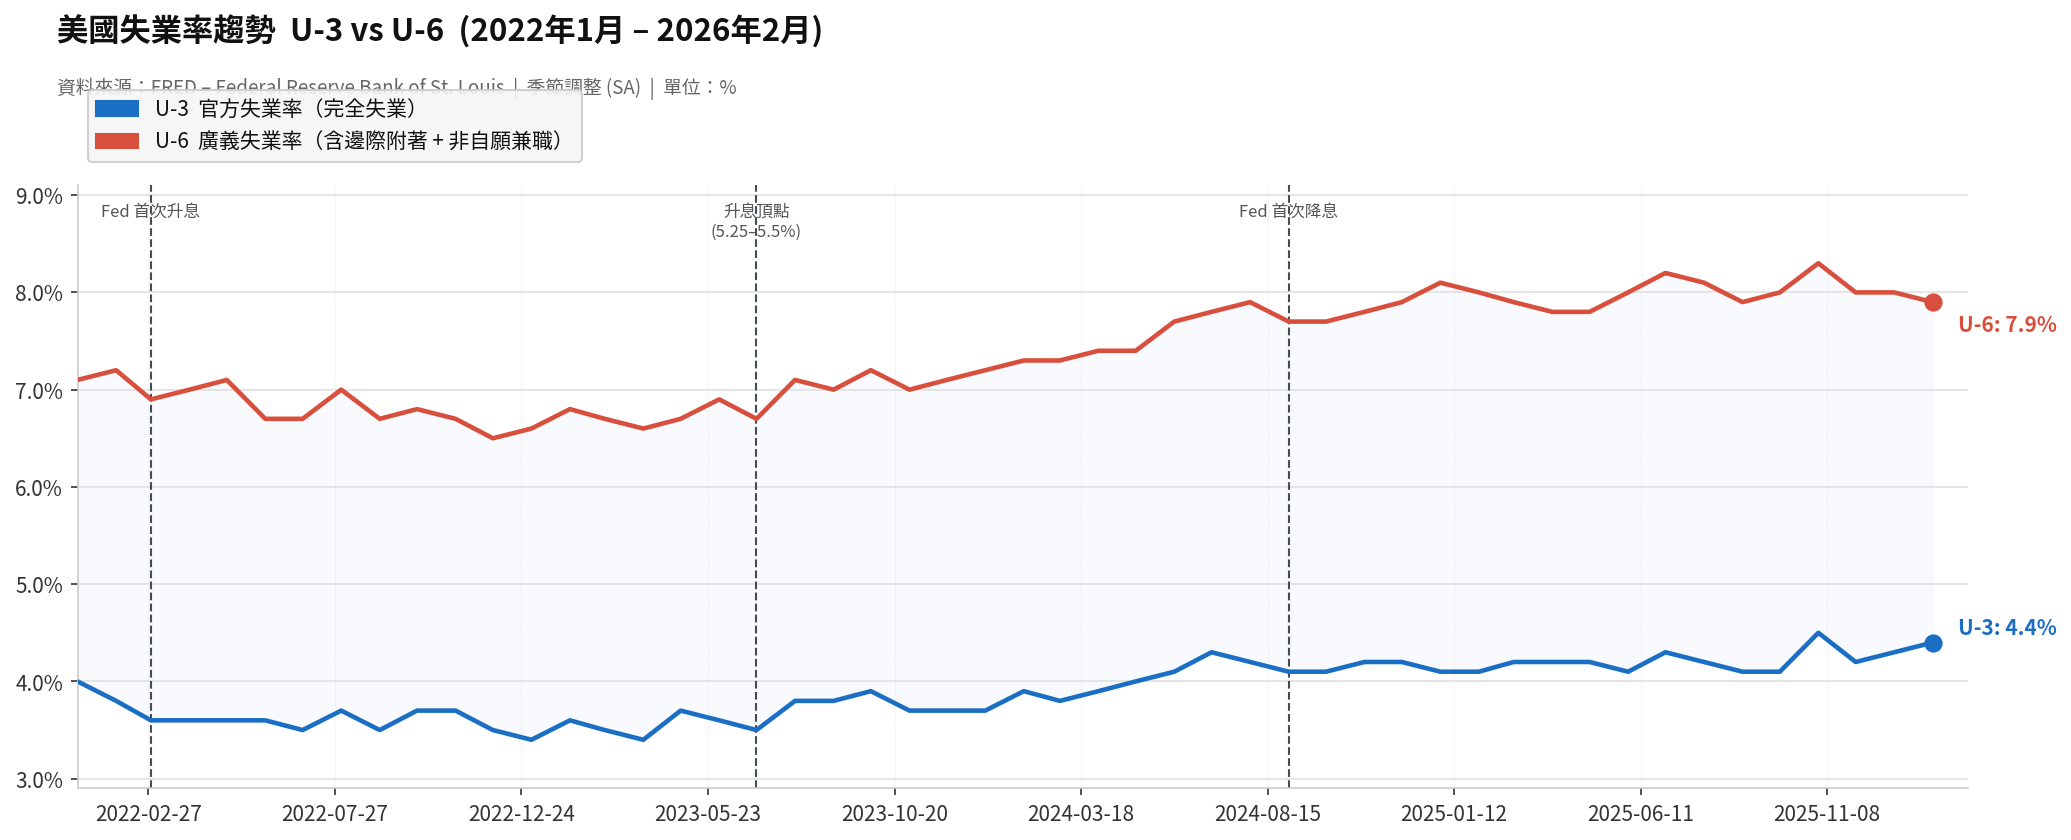
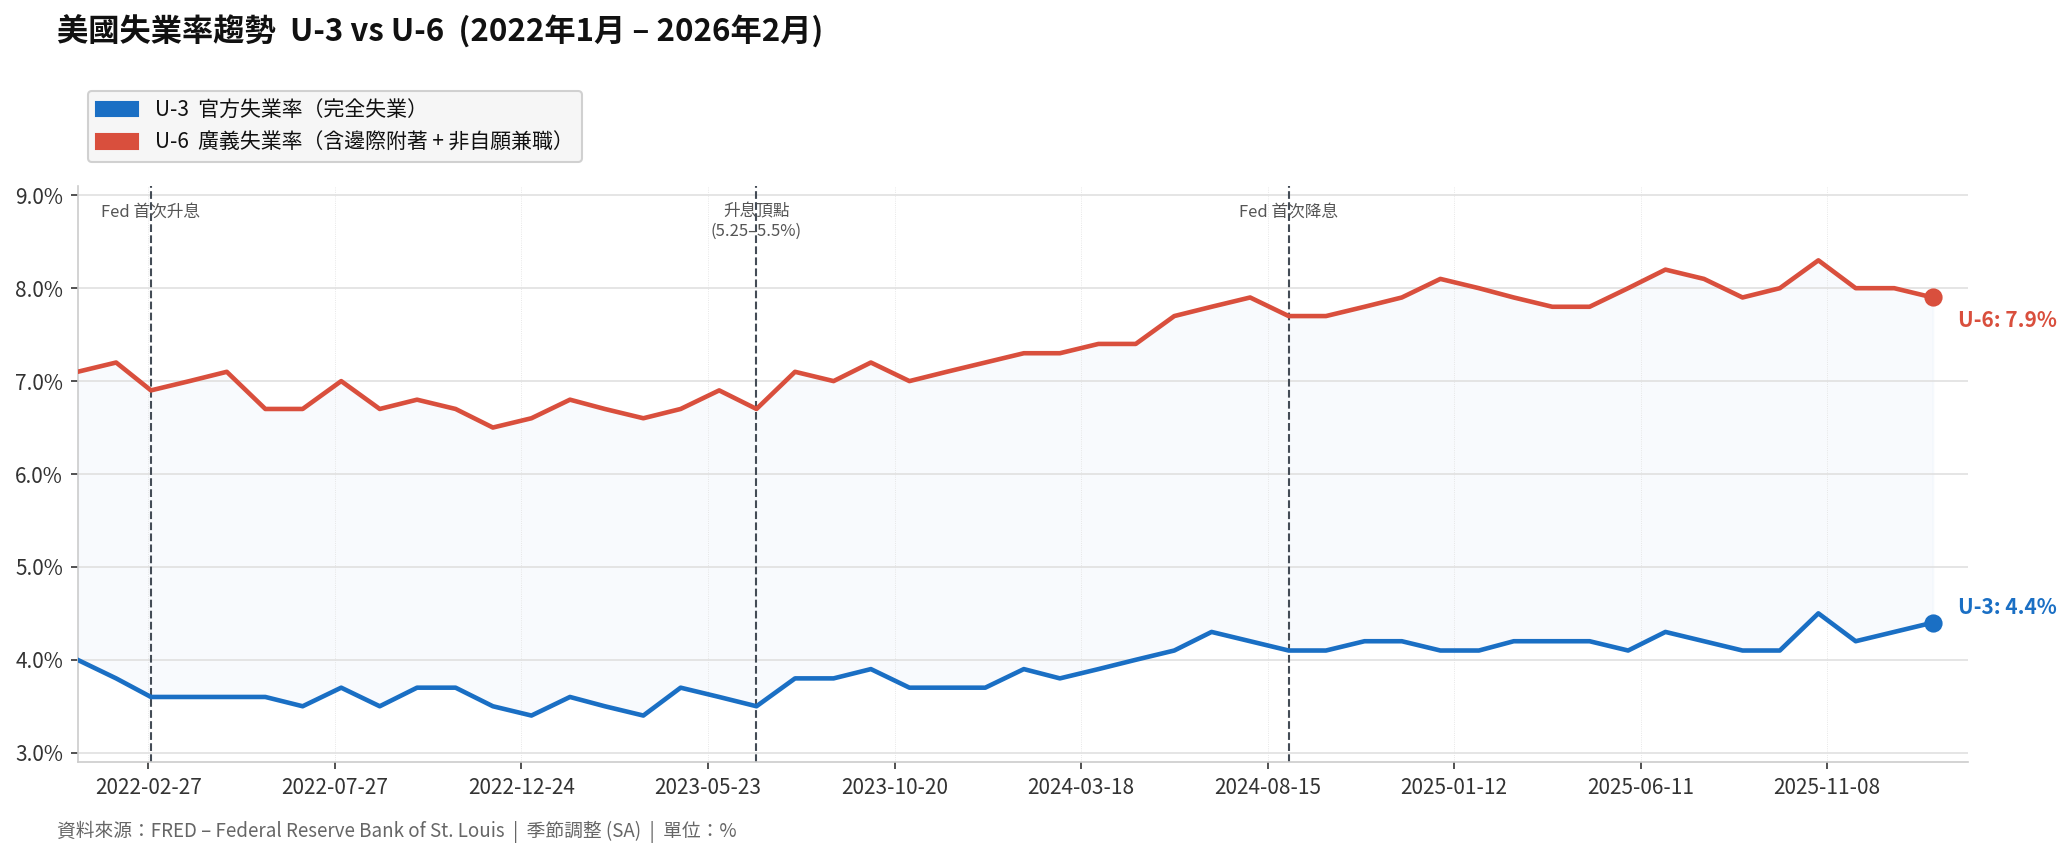
Move data source text below chart
Shift 資料來源 fig.text from y=0.89 (above axes) to y=0.04 (below axes),
and increase bottom margin from 0.10 to 0.13 to prevent overlap with x-axis labels.

https://claude.ai/code/session_015sYEQWq9anZhx8fRYHEw1Q

diff --git a/unemployment_trend.py b/unemployment_trend.py
@@ -99,7 +99,7 @@ FILL_C  = "#d0e4f7"
 fig, ax = plt.subplots(figsize=(14, 6))
 fig.patch.set_facecolor(BG)
 ax.set_facecolor(BG)
-fig.subplots_adjust(top=0.77, bottom=0.10, left=0.07, right=0.97)
+fig.subplots_adjust(top=0.77, bottom=0.13, left=0.07, right=0.97)
 
 # Fill between
 ax.fill_between(u6.index, u6.values, u3.values, alpha=0.15, color=FILL_C, zorder=1)
@@ -174,9 +174,9 @@ fig.text(
     va="top", fontsize=15, color="#111111", fontproperties=fp(bold=True),
 )
 fig.text(
-    0.06, 0.89,
+    0.06, 0.04,
     "資料來源：FRED – Federal Reserve Bank of St. Louis  |  季節調整 (SA)  |  單位：%",
-    va="top", fontsize=9, color="#666666", fontproperties=fp(),
+    va="bottom", fontsize=9, color="#666666", fontproperties=fp(),
 )
 
 # ── Legend ────────────────────────────────────────────────────────────────────
